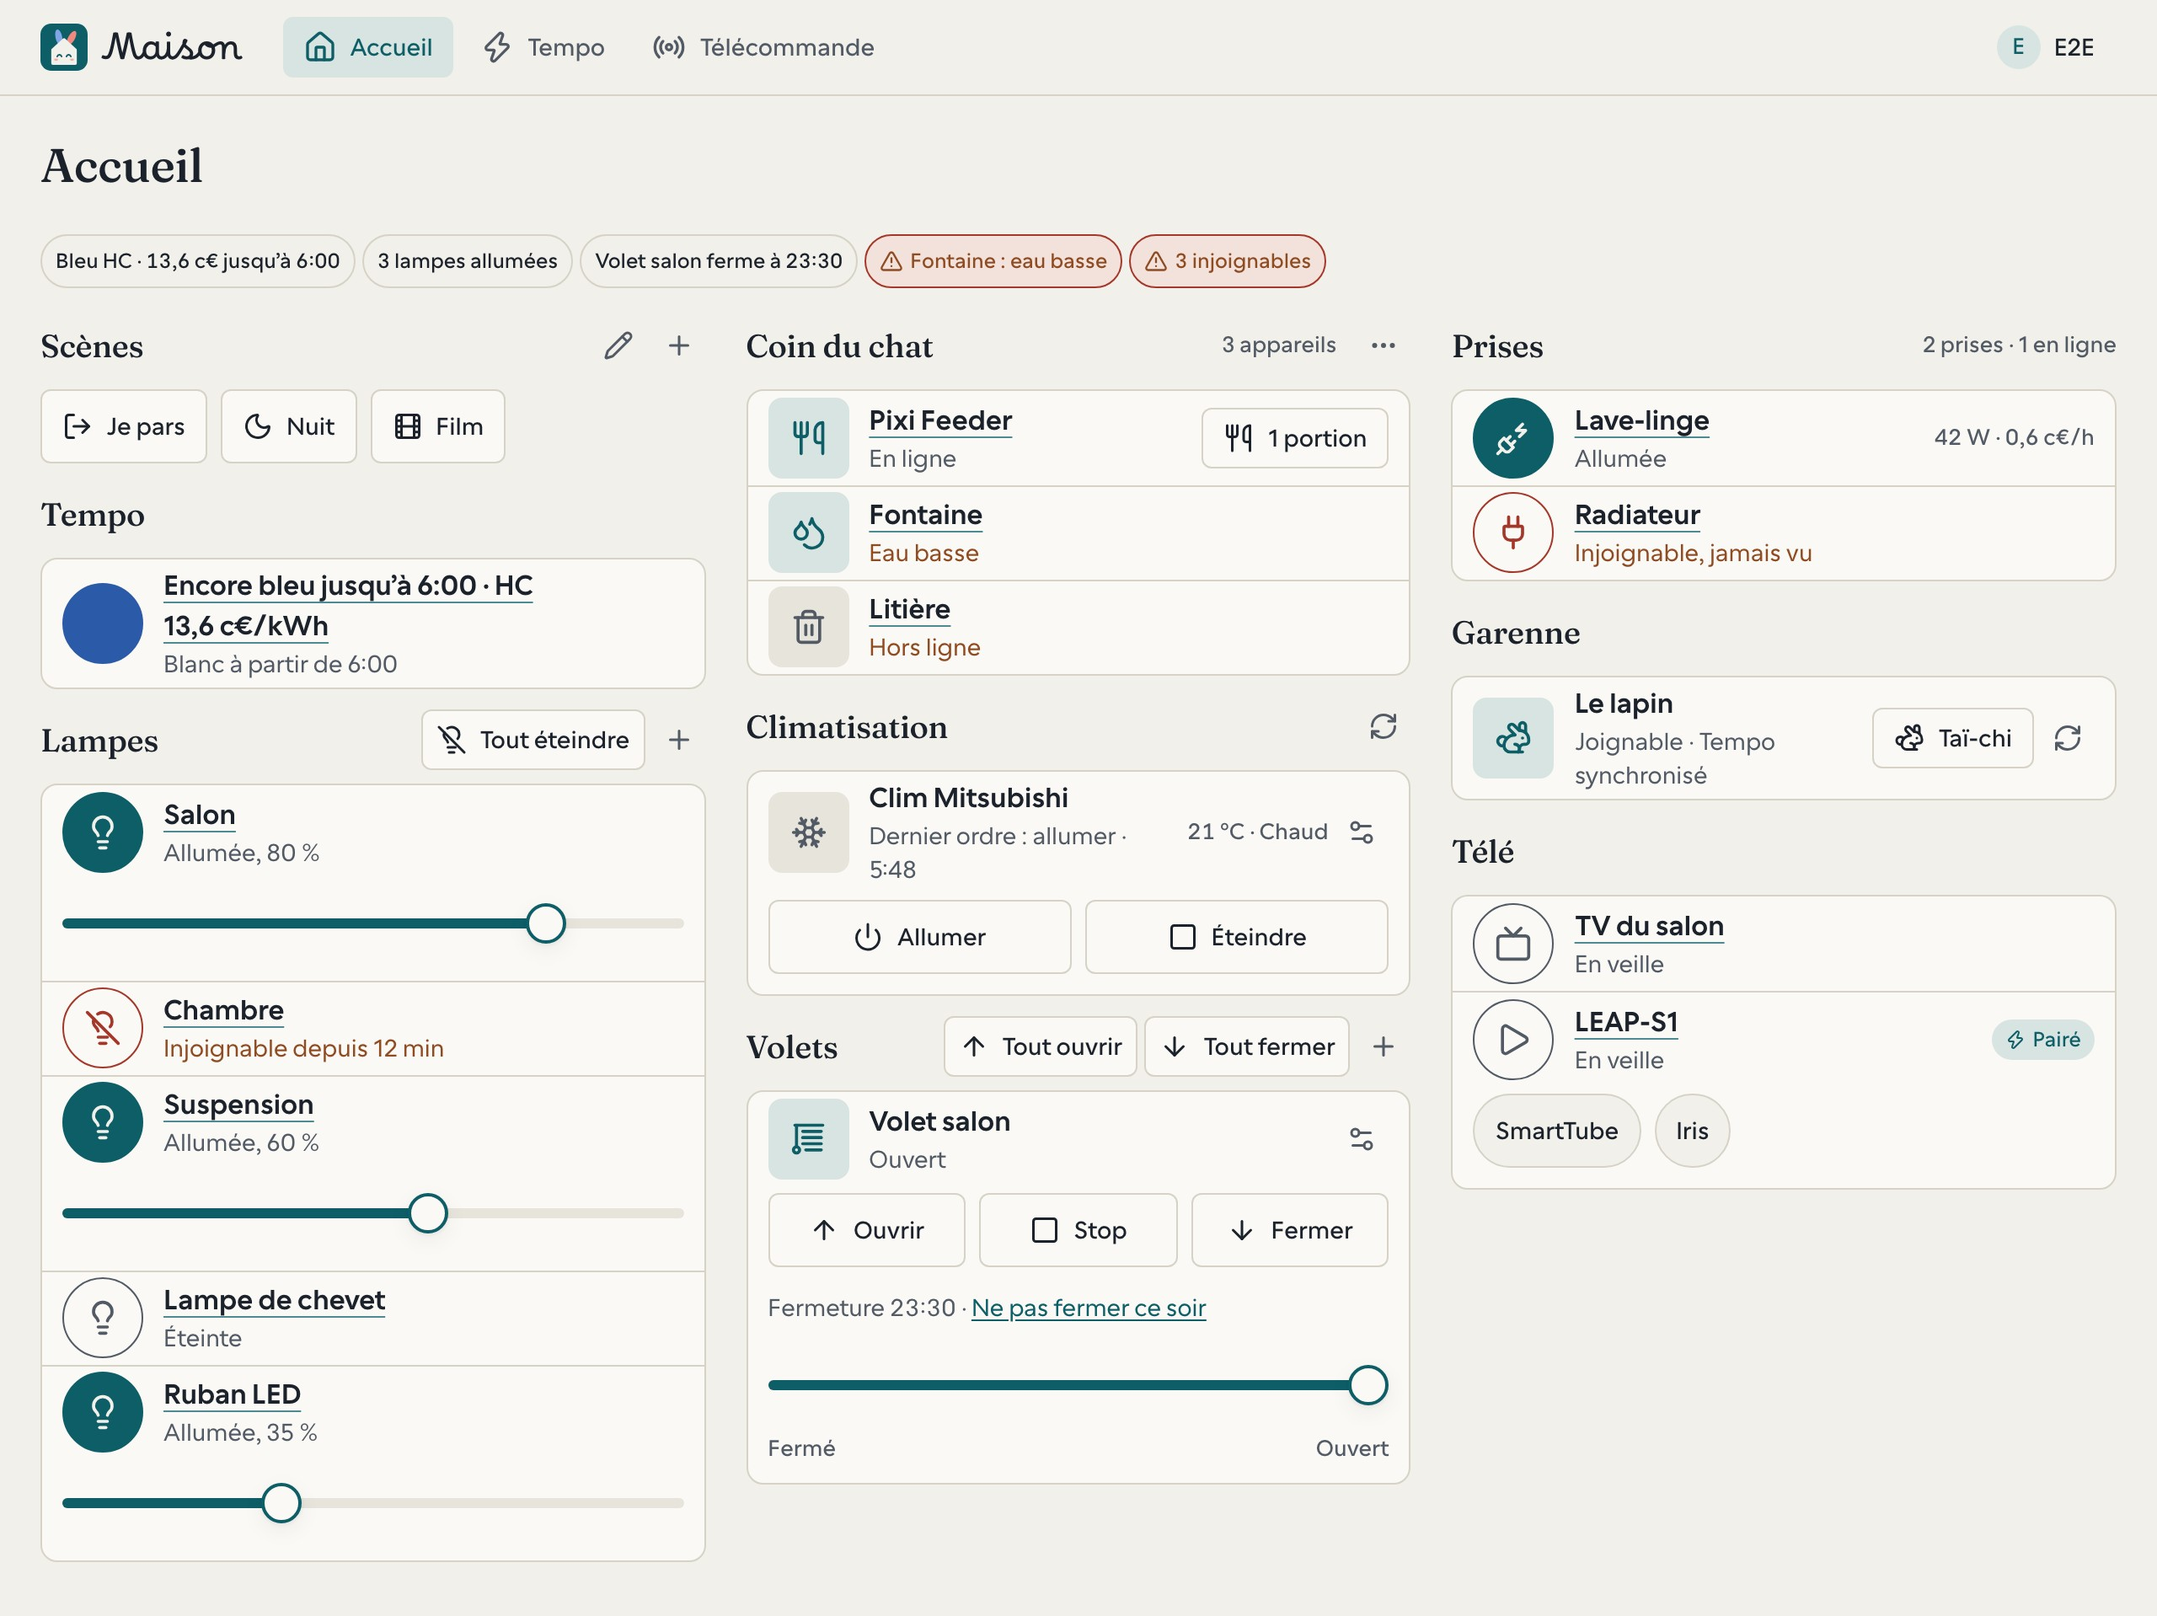
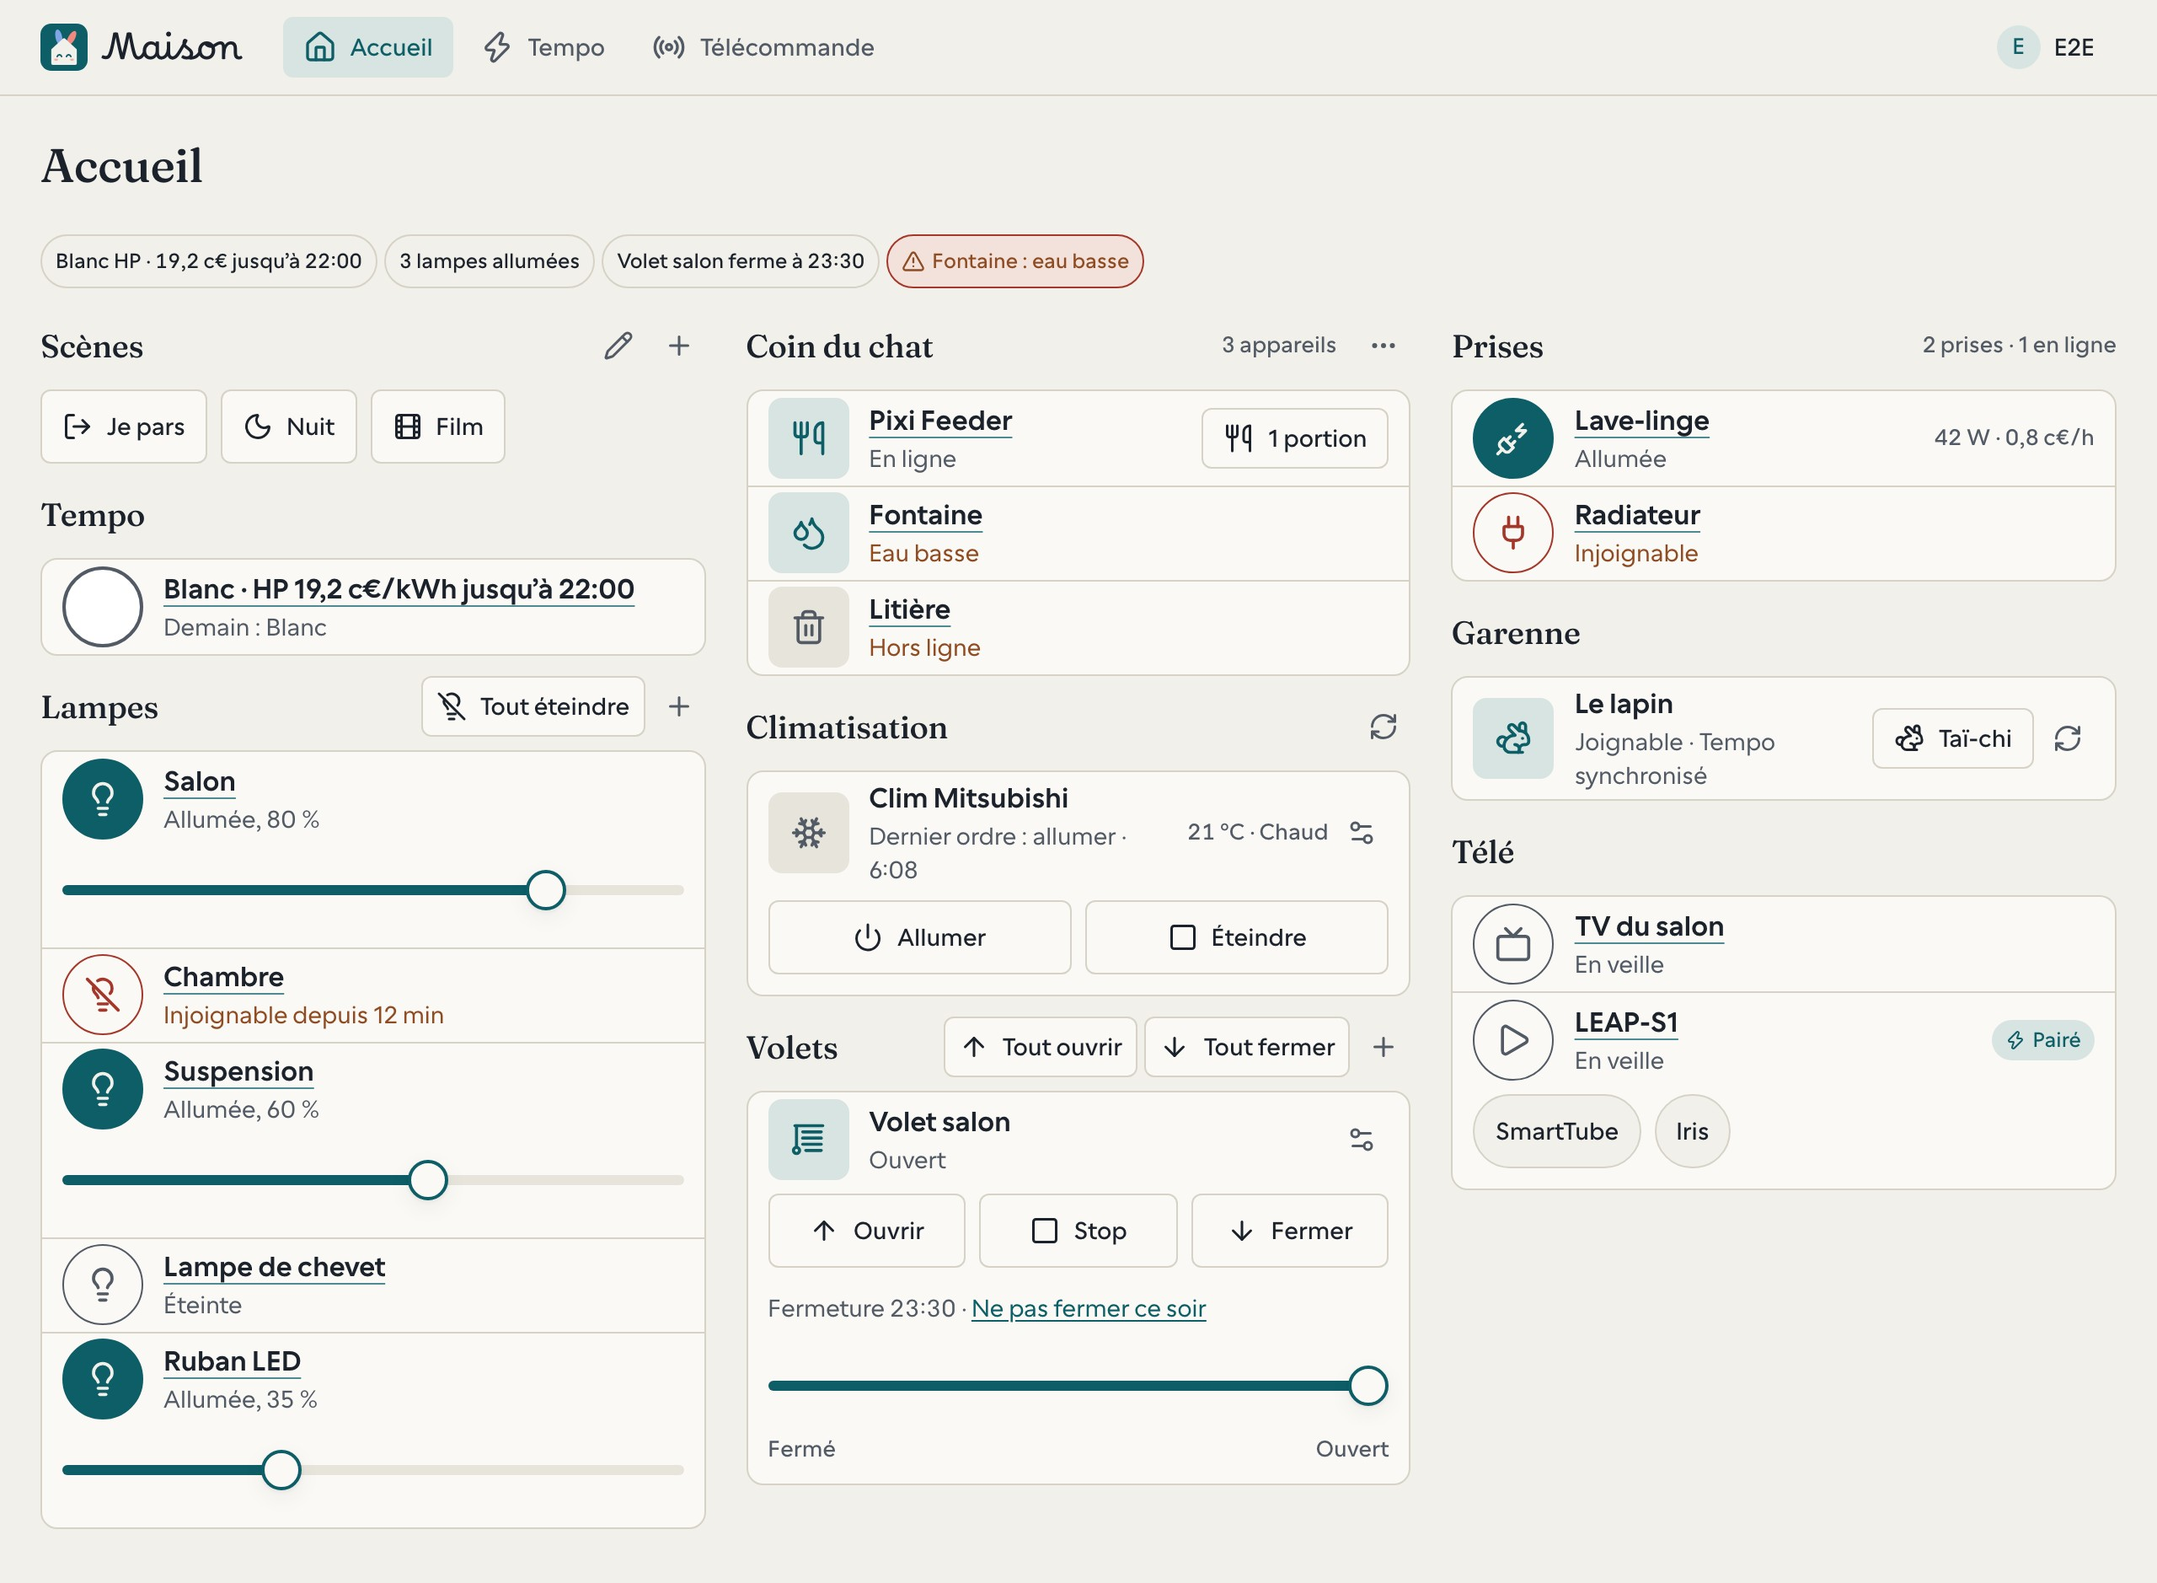
fix: back navigation 500, no phantom feeder fault, quieter unreachable states.
- live(): each Live in its own reactive root, so its deriveds survive the view that first
  asked for it (« back » to the dashboard looped its effects into a 500); e2e smoke covers it
- feeder: DPS 14 is not a fault (it reads 1 when all is well, the March capture proves it)
- « Maintenant » no longer counts unreachable devices (each tile says it); « Injoignable »
  instead of « Injoignable, jamais vu »
- README picture refreshed

diff --git a/web/src/lib/devices/cats/FeederPanel.svelte.test.ts b/web/src/lib/devices/cats/FeederPanel.svelte.test.ts
@@ -13,27 +13,26 @@ const withStatus = (parsedStatus: unknown, more: Record<string, unknown> = {}) =
 	stubApi({ [STATUS]: { success: true, parsedStatus }, [MEALS]: { success: true, decoded: [] }, ...more });
 
 describe('FeederPanel', () => {
-	it('says what the feeder reports, in words, warning on what needs a hand', async () => {
+	it('says what the feeder reports, in words, and no fault it cannot read', async () => {
 		withStatus({
 			feeding: { manualFeedEnabled: true, lastFeedSize: '2 portions', lastFeedReport: 0, quickFeedAvailable: false },
-			system: { poweredBy: 'Battery', faultStatus: true, ipAddress: '10.0.0.2' },
+			system: { poweredBy: 'Battery', ipAddress: '10.0.0.2' },
 			history: { raw: 'R:0 C:2 T:1773270006', parsed: { remaining: '0', count: '2', timestamp: '1773270006', timestampReadable: '' } }
 		});
 		await render(FeederPanel, { id: 'f1' });
-		await expect.element(page.getByText(m.feeder_fault())).toBeVisible();
+		await expect.element(page.getByText(m.feeder_power_battery())).toBeVisible();
 		expect(facts()).toEqual([
 			{ term: m.feeder_power_source(), value: m.feeder_power_battery(), warn: false },
 			{
 				term: m.feeder_last_meal(),
 				value: m.feeder_last_meal_value({ portions: m.feeder_portion({ count: 2 }), when: when(1773270006000) }),
 				warn: false
-			},
-			{ term: m.common_status(), value: m.feeder_fault(), warn: true }
+			}
 		]);
 	});
 
 	it('says only what it knows, and the backend’s own word for a power it does not name', async () => {
-		withStatus({ system: { poweredBy: 'Mode 7', faultStatus: false }, history: null });
+		withStatus({ system: { poweredBy: 'Mode 7' }, history: null });
 		await render(FeederPanel, { id: 'f1' });
 		await expect.element(page.getByText('Mode 7')).toBeVisible();
 		expect(facts()).toEqual([

diff --git a/web/src/lib/live.svelte.ts b/web/src/lib/live.svelte.ts
@@ -149,6 +149,8 @@ export interface Loadable {
 }
 
 const all = new Map<string, Live<unknown, unknown>>();
+/** Each Live's own reactive root (see live()), released by forgetAll(). */
+const roots = new Map<string, () => void>();
 
 /** A source, declared once (the identity of its `fetch` is what live() checks). */
 export function source<T, A = never>(key: string, fetch: (arg?: A) => Promise<T>, every?: Every<T>): Source<T, A> {
@@ -177,7 +179,16 @@ export function sources<Args extends unknown[], T, A = never>(make: (...args: Ar
 export function live<T, A = never>(src: Source<T, A>): Live<T, A> {
 	let entry = all.get(src.key) as Live<T, A> | undefined;
 	if (!entry) {
-		entry = new Live(src);
+		// A Live outlives the component that first asks for it (the next page reads it too): its
+		// deriveds (loading, failed, stale) must not belong to that component, or they go inert
+		// when it is destroyed and the next view reads stale values (an effect loop, a 500 page,
+		// after « back »). So it is made in a root of its own.
+		let made!: Live<T, A>;
+		roots.set(
+			src.key,
+			$effect.root(() => void (made = new Live(src)))
+		);
+		entry = made;
 		all.set(src.key, entry as Live<unknown, unknown>);
 	} else if (import.meta.env.DEV && entry.source.fetch !== src.fetch) {
 		throw new Error(`live('${src.key}'): declared twice with different fetches (declare it once, in the family's data.ts)`);
@@ -197,6 +208,8 @@ export function refresh(prefix: string): Promise<void[]> {
 
 /** Forget everything (sign-out: the next person starts clean). */
 export function forgetAll() {
+	for (const release of roots.values()) release();
+	roots.clear();
 	all.clear();
 }
 

diff --git a/web/src/lib/devices/now/NowStrip.svelte b/web/src/lib/devices/now/NowStrip.svelte
@@ -43,17 +43,6 @@
 			.toSorted((a, b) => new Date(nextEvent(a)!.at).getTime() - new Date(nextEvent(b)!.at).getTime())[0]
 	);
 
-	/** Out of reach, per group (the chip leads to the first group that has one). */
-	const unreachable = $derived(
-		[
-			{ to: 'lamps-title', count: lamps.filter((l) => !l.reachable).length },
-			{ to: 'cats-title', count: (cats.data?.devices ?? []).filter((d) => !d.connected).length },
-			{ to: 'shutters-title', count: (covers.data?.covers ?? []).filter((c) => !c.online).length },
-			{ to: 'meross-title', count: (plugs.data?.devices ?? []).filter((p) => !p.isOnline).length }
-		].filter((g) => g.count > 0)
-	);
-	const unreachableCount = $derived(unreachable.reduce((n, g) => n + g.count, 0));
-
 	// two lines at most on a phone: what does not fit waits behind « +2 » (the facts first, what
 	// needs a hand last), shown on demand; hidden chips are hidden for everyone (`hidden`)
 	const LINES = 2;
@@ -129,7 +118,6 @@
 			{#if d.type !== 'unknown'}<CatChip device={d} />{/if}
 		{/each}
 		{#each plugs.data?.devices ?? [] as p (p.id)}<PlugChip plug={p} {price} />{/each}
-		{#if unreachableCount}<Chip text={m.now_unreachable({ count: unreachableCount })} to={unreachable[0].to} warn />{/if}
 		<li bind:this={more} hidden>
 			<button class="pill-btn now-chip" aria-expanded={open} aria-label={m.now_more({ count: folded })} onclick={unfold}>+{folded}</button>
 		</li>

diff --git a/web/src/lib/live.remount.svelte.test.ts b/web/src/lib/live.remount.svelte.test.ts
@@ -1,0 +1,27 @@
+import { describe, expect, it } from 'vitest';
+import { flushSync } from 'svelte';
+import { forgetAll, live, source } from './live.svelte.ts';
+
+describe('a live value outlives the view that first asked for it', () => {
+	it('its deriveds stay live after that view is destroyed (« back » to a page)', async () => {
+		const src = source('remount-test', async () => 1);
+		let first!: ReturnType<typeof live<number>>;
+		const destroyFirst = $effect.root(() => void (first = live(src)));
+		flushSync();
+		await first.refresh();
+		destroyFirst();
+
+		// the next view reads the same entry: loading follows the data, never a stale answer
+		let second!: ReturnType<typeof live<number>>;
+		const destroySecond = $effect.root(() => void (second = live(src)));
+		flushSync();
+		expect(second).toBe(first);
+		expect(second.loading).toBe(false);
+		second.set(2);
+		flushSync();
+		expect(second.data).toBe(2);
+		expect(second.loading).toBe(false);
+		destroySecond();
+		forgetAll();
+	});
+});

diff --git a/web/src/lib/devices/cats/alerts.test.ts b/web/src/lib/devices/cats/alerts.test.ts
@@ -7,13 +7,12 @@ describe('statusLine', () => {
 	it('nothing to say without a status, or when all is well', () => {
 		expect(statusLine('fountain', undefined)).toBeNull();
 		expect(statusLine('fountain', { waterLevel: 'ok' })).toBeNull();
-		expect(statusLine('feeder', { system: { faultStatus: false, poweredBy: 'AC Power' } })).toBeNull();
+		expect(statusLine('feeder', { system: { poweredBy: 'AC Power' } })).toBeNull();
 		expect(statusLine('unknown', {})).toBeNull();
 	});
 
 	it('what needs a hand, in the warning style', () => {
 		expect(statusLine('fountain', { waterLevel: 'low' })).toEqual({ text: m.cats_water_low(), warn: true });
-		expect(statusLine('feeder', { system: { faultStatus: true } })).toEqual({ text: m.cats_fault(), warn: true });
 		expect(statusLine('litter-box', { sensors: { litterLevel: 'half' }, system: { state: 'satnd_by' } })).toEqual({
 			text: m.cats_litter_half(),
 			warn: true

diff --git a/web/src/lib/format.ts b/web/src/lib/format.ts
@@ -35,11 +35,11 @@ export function formatMinutes(minutes: number): string {
 /**
  * Since when a device is out of reach, for every tile alike (docs/ux.md § 4):
  * « Injoignable depuis 12 min » within the hour, then the time it was last heard
- * (« Injoignable depuis 14:20 », with the day when not today), « Injoignable, jamais vu »
+ * (« Injoignable depuis 14:20 », with the day when not today), or just « Injoignable »
  * when it never answered. `at`: ISO text or ms since the epoch; 0 or null is never.
  */
 export function unreachableSince(at: string | number | null | undefined): string {
-	if (!at) return m.state_never_seen();
+	if (!at) return m.state_unreachable();
 	const ms = typeof at === 'number' ? at : new Date(at).getTime();
 	const minutes = Math.max(1, Math.round((Date.now() - ms) / 60_000));
 	return minutes < HOUR / MINUTE

diff --git a/web/src/lib/devices/cats/FeederPanel.svelte b/web/src/lib/devices/cats/FeederPanel.svelte
@@ -1,6 +1,6 @@
 <script lang="ts">
 	// The feeder's page: serve now (no dialog: the count is in the button, § 6), what it
-	// reports (its power, its last meal, a fault), and its scheduled meals.
+	// reports (its power, its last meal), and its scheduled meals.
 	import { m } from '#lib/paraglide/messages.js';
 	import { clock } from '#lib/i18n.svelte.ts';
 	import { live } from '#lib/live.svelte.ts';
@@ -68,9 +68,6 @@
 							<StatusRow icon="plug" label={m.feeder_power_source()} value={POWER[s.system.poweredBy]?.() ?? s.system.poweredBy} />
 						{/if}
 						<StatusRow icon="clock" label={m.feeder_last_meal()} value={meal ?? m.common_unknown()} />
-						{#if s.system?.faultStatus}
-							<StatusRow icon="triangle-alert" label={m.common_status()} value={m.feeder_fault()} warn />
-						{/if}
 					</dl>
 				{/if}
 			</Loaded>

diff --git a/web/src/lib/devices/lamps/LampTile.svelte.test.ts b/web/src/lib/devices/lamps/LampTile.svelte.test.ts
@@ -76,10 +76,10 @@ describe('LampTile', () => {
 		await render(LampTile, { lamp: fromZigbee(zigbeeLamp({ reachable: false, lastSeen: null })), driver: zigbee });
 		const toggle = page.getByRole('button', { name: 'Suspension' });
 		await expect.element(toggle).toHaveAttribute('aria-disabled', 'true');
-		await expect.element(toggle).toHaveAccessibleDescription(m.state_never_seen());
+		await expect.element(toggle).toHaveAccessibleDescription(m.state_unreachable());
 		(toggle.element() as HTMLElement).click();
 		expect(calls).toEqual([]);
-		await expect.element(page.getByText(m.state_never_seen())).toBeVisible();
+		await expect.element(page.getByText(m.state_unreachable())).toBeVisible();
 		await expect.element(page.getByRole('slider')).not.toBeInTheDocument();
 	});
 

diff --git a/web/src/lib/devices/now/NowStrip.svelte.test.ts b/web/src/lib/devices/now/NowStrip.svelte.test.ts
@@ -61,7 +61,8 @@ describe('NowStrip', () => {
 		await expect.element(chip(m.now_lamps_on({ count: 2 }))).not.toHaveClass('warn');
 		await expect.element(chip(m.shutters_will_close({ name: 'Volet salon', time: clock(close) }))).toBeVisible();
 		await expect.element(chip(m.now_alert({ name: 'Fontaine', what: inSentence(m.cats_water_low()) }))).toHaveClass('warn');
-		await expect.element(chip(m.now_unreachable({ count: 2 }))).toHaveClass('warn');
+		// out of reach is said on each tile, not in the strip (normal here: a plug unplugged)
+		await expect.element(page.getByText(/injoignable/i)).not.toBeInTheDocument();
 		await expect.element(page.getByRole('button', { name: /Lave-linge/ })).toHaveClass('warn');
 	});
 

diff --git a/web/src/lib/test/tuya.ts b/web/src/lib/test/tuya.ts
@@ -15,7 +15,7 @@ export const tuyaDevice = (over: Partial<Device> = {}): Device => ({
 export const feederStatus = (at = Date.UTC(2026, 9, 2, 6), over: Partial<FeederStatus> = {}): FeederStatus => ({
 	feeding: { manualFeedEnabled: true, lastFeedSize: '2 portions', lastFeedReport: 0, quickFeedAvailable: false },
 	settings: { soundEnabled: true, alexaFeedEnabled: false },
-	system: { faultStatus: false, poweredBy: 'AC Power', ipAddress: '192.168.1.174' },
+	system: { poweredBy: 'AC Power', ipAddress: '192.168.1.174' },
 	history: {
 		raw: `R:0 C:2 T:${Math.floor(at / 1000)}`,
 		parsed: { remaining: '0', count: '2', timestamp: String(Math.floor(at / 1000)), timestampReadable: '' }

diff --git a/e2e/smoke.ts b/e2e/smoke.ts
@@ -66,5 +66,15 @@ await passkeyButton.click();
 await title(p, fr.nav_tempo());
 check('signed in again where asked, with the passkey alone', p.url().endsWith('/tempo-predictions'));
 
+// « back » to a page already seen: its live values are read again, never a 500 (they once
+// belonged to the destroyed view and looped)
+await p.goto(`${BASE}/`);
+await title(p, fr.nav_home());
+await p.getByRole('link', { name: fr.nav_tempo() }).first().click();
+await title(p, fr.nav_tempo());
+await p.goBack();
+await title(p, fr.nav_home());
+check('back from Tempo shows the dashboard again', new URL(p.url()).pathname === '/');
+
 checkNoErrors();
 await done(browser);

diff --git a/web/src/lib/devices/cats/alerts.ts b/web/src/lib/devices/cats/alerts.ts
@@ -20,10 +20,8 @@ const fact = (text: string): Line => ({ text, warn: false });
 /** The device's own line from its status; null when it has nothing to say. */
 export function statusLine(kind: Kind, status: unknown): Line | null {
 	if (!status) return null;
-	if (kind === 'feeder') {
-		const s = status as FeederStatus;
-		return s.system?.faultStatus ? warn(m.cats_fault()) : null;
-	}
+	// the feeder reports no fault it can be trusted with (its DPS 14 reads 1 when all is well)
+	if (kind === 'feeder') return null;
 	if (kind === 'fountain') {
 		const s = status as FountainStatus;
 		return s.waterLevel === 'low' ? warn(m.cats_water_low()) : null;
